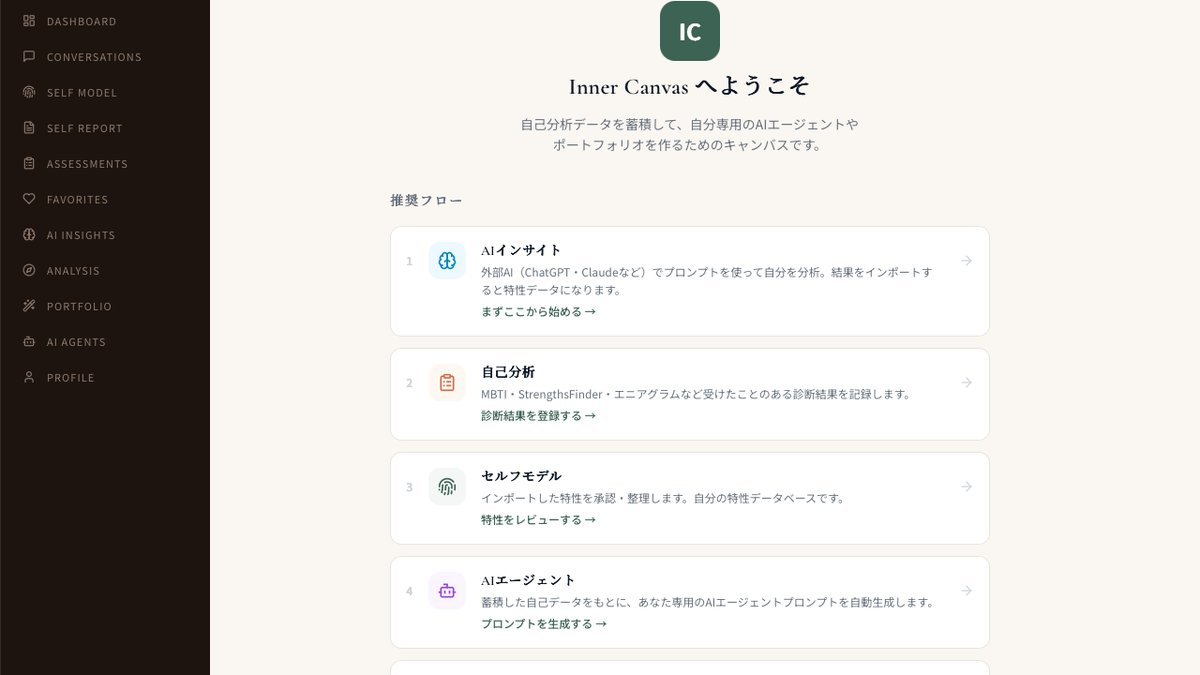
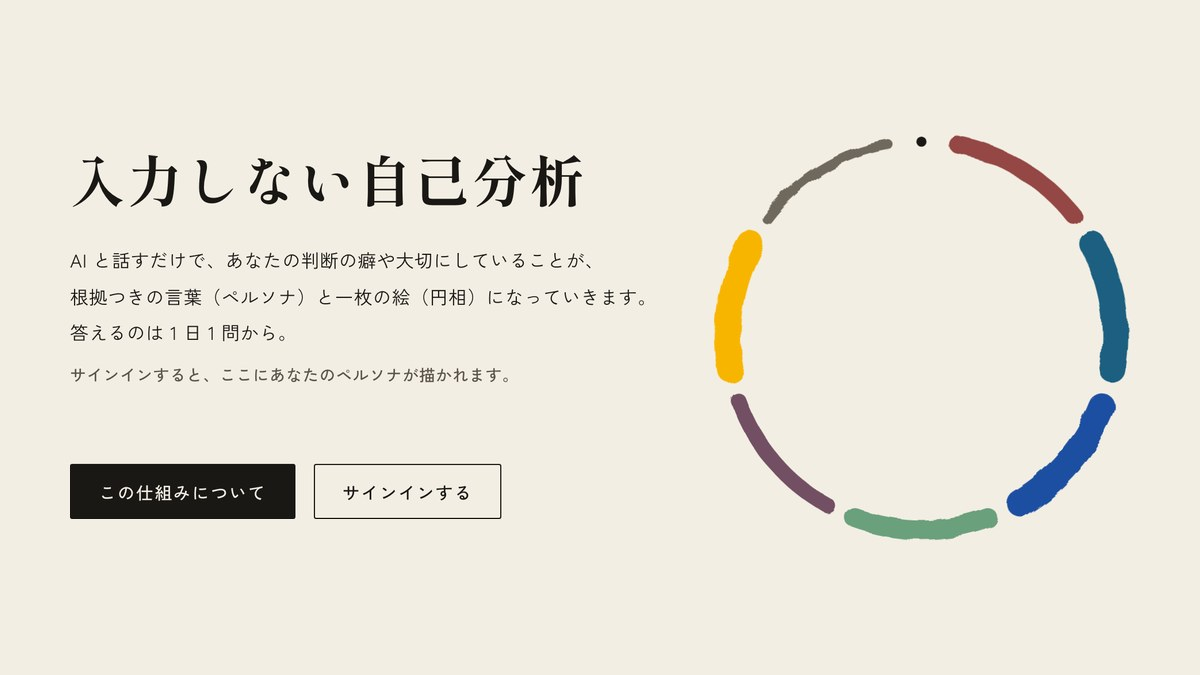
fix(website): Inner Canvas のサムネイルを今の紙と墨の入口に差し替え、表記を NuWord Inner Canvas にそろえる

diff --git a/website/apps-data.js b/website/apps-data.js
@@ -124,7 +124,7 @@ const NOCTA_APPS = [
     descEn: "Keep words close, like verses. A web app to collect and revisit memorable lines from your reading."
   },
   {
-    title: "NuWord inner canvas",
+    title: "NuWord Inner Canvas",
     cat: "app",
     url: "https://nner-canvas.vercel.app",
     imgUrl: "./images/inner-canvas.jpg",
